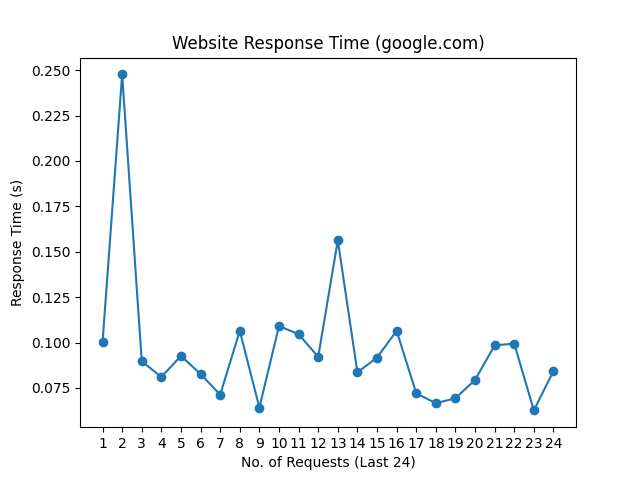
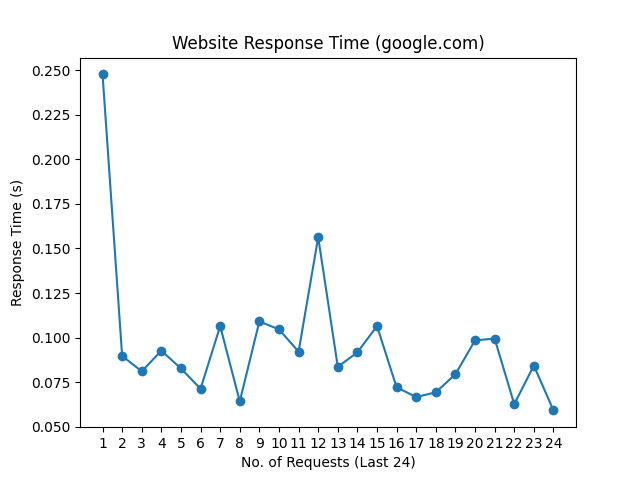
update README.md, history and graph

diff --git a/README.md b/README.md
@@ -1,10 +1,10 @@
 # Web Monitoring
 
-Last Checked: 22/11/2023 09:05
+Last Checked: 23/11/2023 09:02
 
 | Website | Response Time (s) | Status | Avg Uptime (%) |
 |---------|-------------------|--------|----------------|
 | www.thiswebsiteisdown.net | 0 <br> <img src="graph/thiswebsiteisdown.net.png" alt="Graph" width="200" height="200">  | ❌ Down | 0.00 |
-| www.netflix.com | 0.567015 <br> <img src="graph/netflix.com.png" alt="Graph" width="200" height="200">  | ✅ Up | 100.00 |
-| www.google.com | 0.084324 <br> <img src="graph/google.com.png" alt="Graph" width="200" height="200">  | ✅ Up | 100.00 |
-| www.facebook.com | 0.411260 <br> <img src="graph/facebook.com.png" alt="Graph" width="200" height="200">  | ✅ Up | 100.00 |
+| www.netflix.com | 0.522251 <br> <img src="graph/netflix.com.png" alt="Graph" width="200" height="200">  | ✅ Up | 100.00 |
+| www.google.com | 0.059149 <br> <img src="graph/google.com.png" alt="Graph" width="200" height="200">  | ✅ Up | 100.00 |
+| www.facebook.com | 0.418246 <br> <img src="graph/facebook.com.png" alt="Graph" width="200" height="200">  | ✅ Up | 100.00 |
